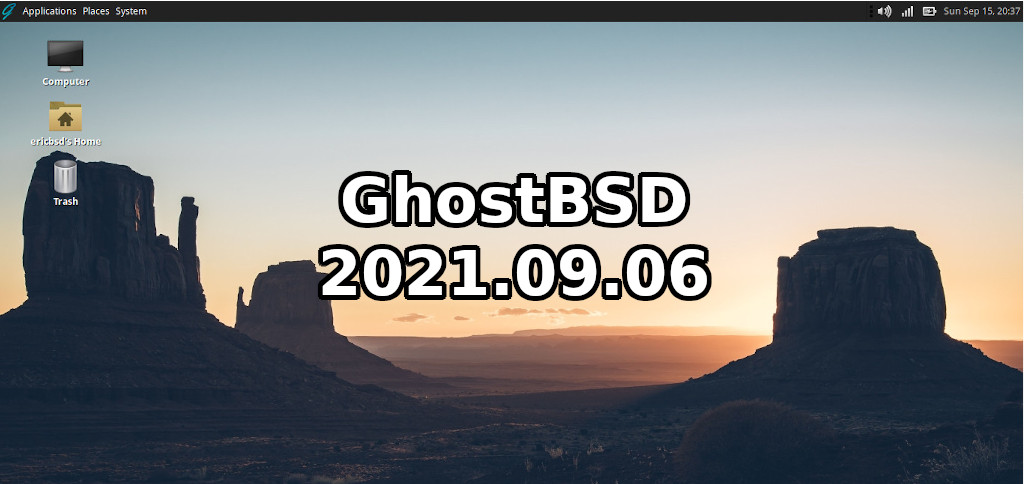
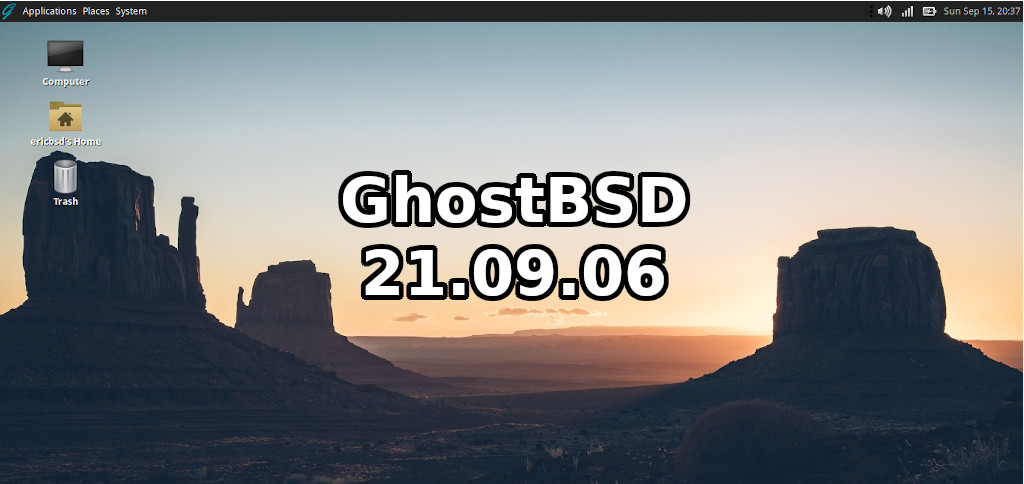
update the version

Changed region(s): [[0.3125, 0.4959, 0.7188, 0.6198]]

diff --git a/_posts/2021-09-07-ghostbsd-20210906-release.md b/_posts/2021-09-07-ghostbsd-20210906-release.md
@@ -11,7 +11,7 @@ image: /assets/images/post-images/ghostbsd/ghostbsd-20210906.jpg
 
 **On** 7th September 2021, the GhostBSD project has announced the availability of GhostBSD 21.09.06 ISO images. The GhostBSD 21.09.06 is coming with FreeBSD rc.d for starting the background service. The release also includes other critical bug fixes and package updates.
 
-![GhostBSD 2021.09.06 featured image](/assets/images/post-images/ghostbsd/ghostbsd-20210906.jpg)
+![GhostBSD 21.09.06 featured image](/assets/images/post-images/ghostbsd/ghostbsd-20210906.jpg)
 
 The salient features in the GhostBSD 21.09.06 release are as follows.
 > - GhostBSD moved back to FreeBSD rc.d to start services. It was OpenRC for a while.
@@ -22,12 +22,12 @@ The salient features in the GhostBSD 21.09.06 release are as follows.
 - Included Xfce4-screensaver
 - Allow networkmgr to run without installation to /usr/local/share/
 
-For [further reading on the GhostBSD 2021.09.06 release](https://www.ghostbsd.org/ghostbsd_21.09.06_iso_now_available), see the official release announcement in the project's blog.
+For [further reading on the GhostBSD 21.09.06 release](https://www.ghostbsd.org/ghostbsd_21.09.06_iso_now_available), see the official release announcement in the project's blog.
 
-## Updating / Installing GhostBSD 2021.09.06
+## Updating / Installing GhostBSD 21.09.06
 If you are an existing user of the GhostBSD, then you can perform a regular update from the Update Station. There are no other steps required.
 
 For the fresh installation, you may download the installation images from the below link and follow the instructions as in the official release announcement.
 
-<a href="http://download.us.ghostbsd.org/releases/amd64/21.09.06/GhostBSD-21.09.06.iso" class="download">Download GhostBSD 2021.09.06 ISO (US)</a>
+<a href="http://download.us.ghostbsd.org/releases/amd64/21.09.06/GhostBSD-21.09.06.iso" class="download">Download GhostBSD 21.09.06 ISO (US)</a>
 <a href="https://www.ghostbsd.org/download" class="download">All download options</a>
